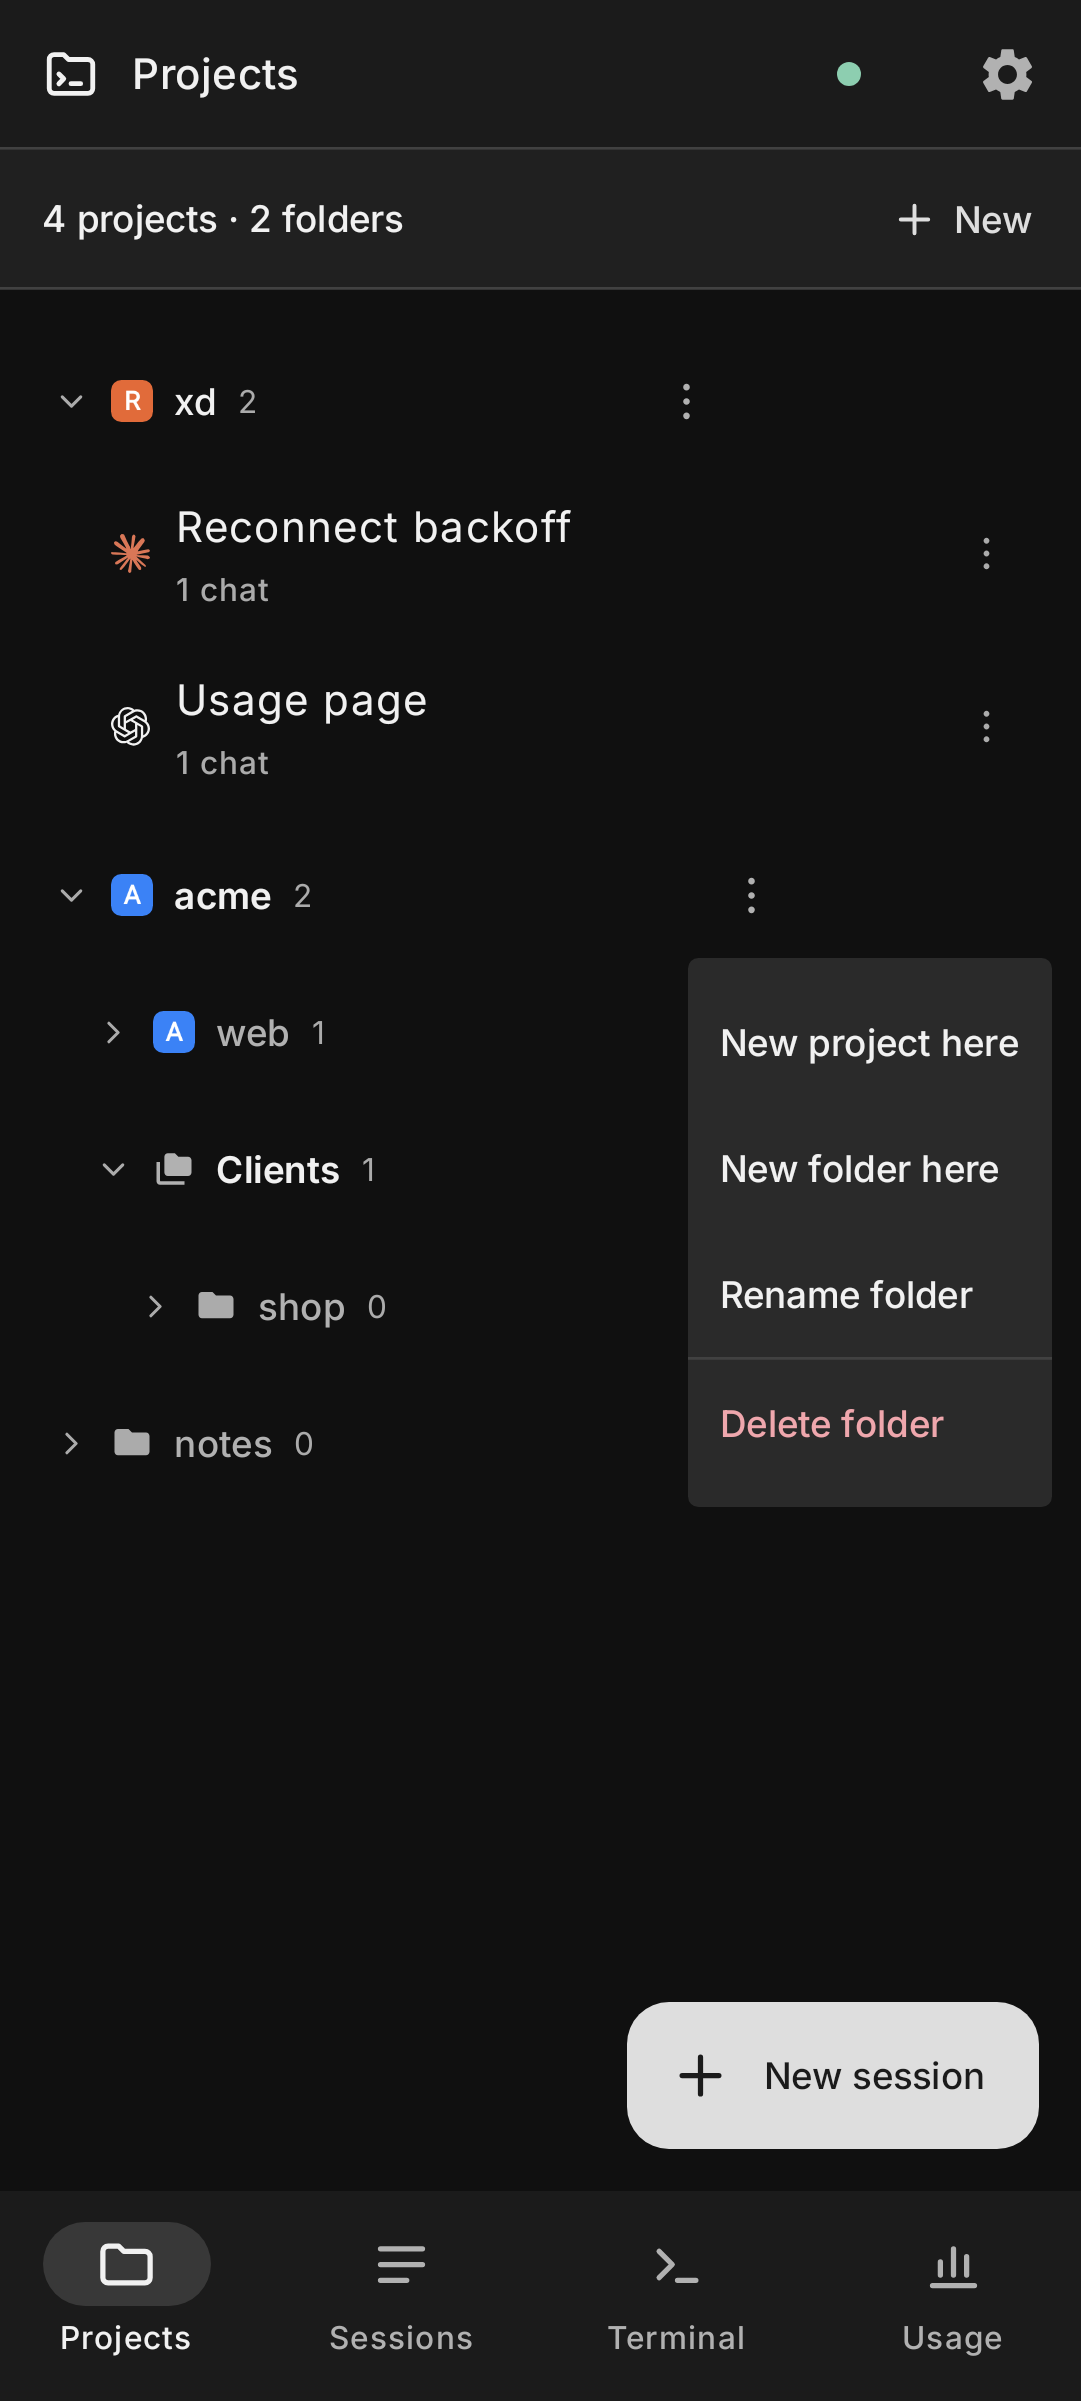
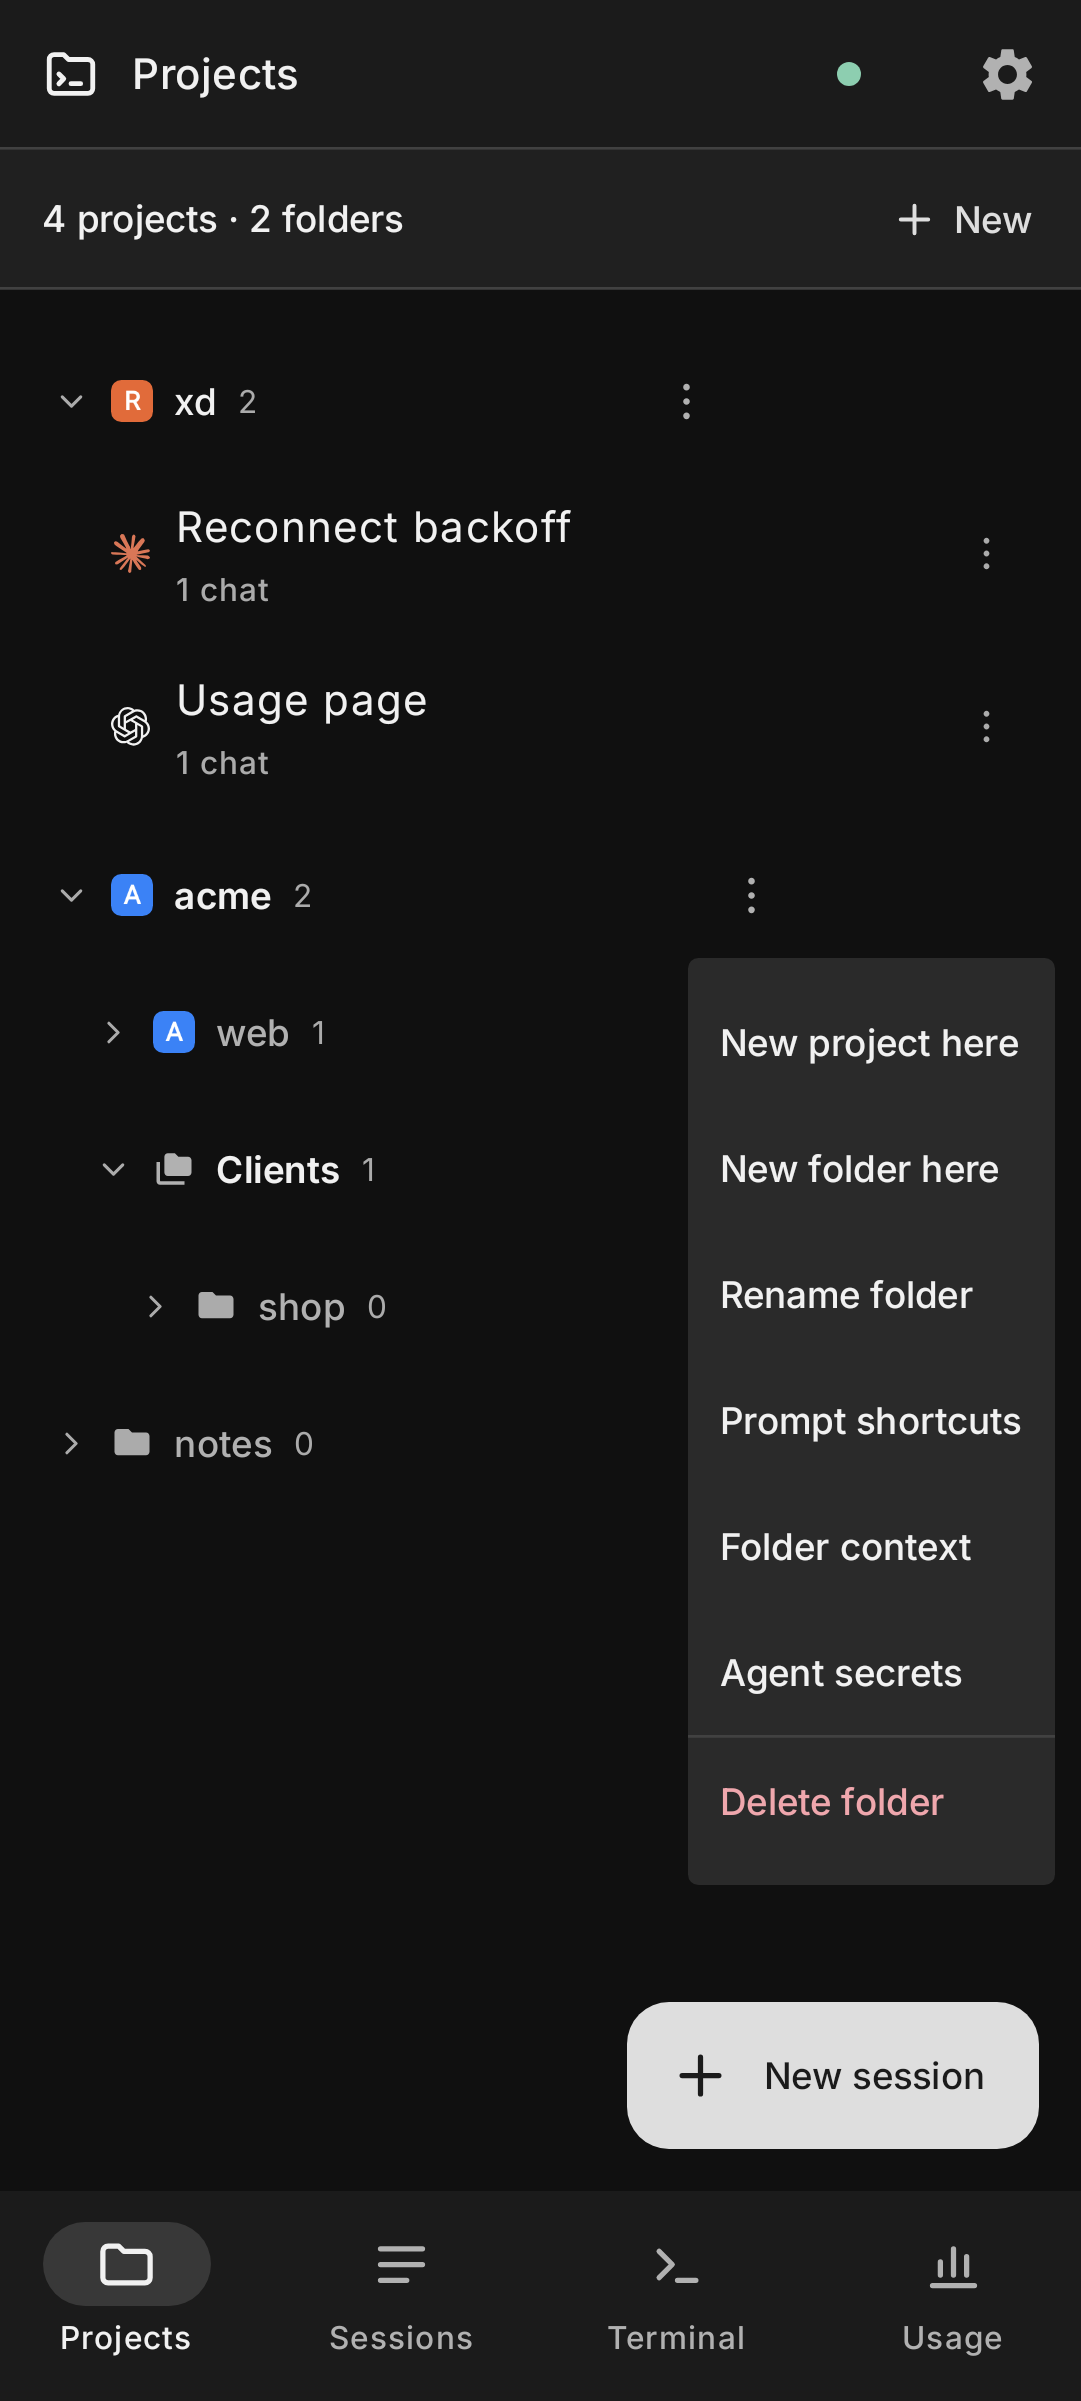
fix(mobile): keep folder context and secrets, and script the screen test's host directly
A folder's menu keeps Folder context and Agent secrets beside Prompt shortcuts: mobile offered them while it listed these folders as projects, and what is set on a folder reaches every project inside. Their dialogs now resolve the folder from the whole tree rather than from projects alone.

MainViewModel takes its client as an optional argument, so the Projects screen test builds it around a scripted host instead of relying on a test Application, which Robolectric did not always use when other test classes ran first. XdApplication is unchanged from master.

Changed region(s): [[0.6105, 0.5623, 0.9769, 0.8122]]

diff --git a/mobile/androidApp/src/test/kotlin/com/restartfu/xd/mobile/ui/ProjectsScreenshotTest.kt b/mobile/androidApp/src/test/kotlin/com/restartfu/xd/mobile/ui/ProjectsScreenshotTest.kt
@@ -24,7 +24,6 @@ import androidx.compose.ui.test.junit4.AndroidComposeTestRule
 import androidx.compose.ui.test.junit4.createAndroidComposeRule
 import androidx.compose.ui.test.onLast
 import androidx.compose.ui.test.performClick
-import androidx.lifecycle.ViewModelProvider
 import androidx.lifecycle.compose.collectAsStateWithLifecycle
 import com.restartfu.xd.XdClient
 import com.restartfu.xd.credentials.CredentialStore
@@ -34,12 +33,15 @@ import com.restartfu.xd.credentials.SshHostKey
 import com.restartfu.xd.credentials.StoredCredentials
 import com.restartfu.xd.mobile.MainViewModel
 import com.restartfu.xd.mobile.MobileSettings
-import com.restartfu.xd.mobile.XdApplication
+import com.restartfu.xd.net.ConnectResult
 import com.restartfu.xd.net.PlatformSocket
 import com.restartfu.xd.net.PlatformSocketListener
 import java.io.ByteArrayOutputStream
 import java.io.File
 import kotlinx.coroutines.CoroutineScope
+import kotlinx.coroutines.Dispatchers
+import kotlinx.coroutines.SupervisorJob
+import kotlinx.coroutines.cancel
 import kotlinx.coroutines.runBlocking
 import kotlinx.serialization.json.Json
 import kotlinx.serialization.json.jsonObject
@@ -62,7 +64,7 @@ import org.robolectric.shadows.ShadowLooper
  */
 @RunWith(RobolectricTestRunner::class)
 @GraphicsMode(GraphicsMode.Mode.NATIVE)
-@Config(sdk = [35], qualifiers = "w412dp-h915dp-420dpi", application = ProjectsScreenshotTest.ScriptedApplication::class)
+@Config(sdk = [35], qualifiers = "w412dp-h915dp-420dpi")
 class ProjectsScreenshotTest {
     private val out = System.getProperty("xd.shots")?.let(::File)
 
@@ -86,7 +88,8 @@ class ProjectsScreenshotTest {
     @Test fun folderMenu() = shoot("folder-menu-dark", MinimalThemePreset.DARK) {
         // A top-level folder with no other folder to go into cannot move.
         click("acme actions")
-        check(shows("New project here") && shows("Prompt shortcuts") && shows("Delete folder") && !shows("Move to…"))
+        check(shows("New project here") && shows("Prompt shortcuts") && shows("Folder context") &&
+            shows("Agent secrets") && shows("Delete folder") && !shows("Move to…"))
         pressBack()
         click("Clients actions")
         check(shows("New project here") && shows("Move to…") && shows("Delete folder"))
@@ -124,8 +127,10 @@ class ProjectsScreenshotTest {
     /** Opens the page, lets [steps] act on it, and captures the result. */
     private fun shoot(name: String, theme: MinimalThemePreset, steps: Screen.() -> Unit = {}) {
         val activity = compose.activity
-        val model = ViewModelProvider(activity)[MainViewModel::class.java]
-        runBlocking { model.client.connect(connection) }
+        val scope = CoroutineScope(SupervisorJob() + Dispatchers.Default)
+        val model = MainViewModel(activity.application, XdClient({ ScriptedSocket() }, NoCredentials, scope))
+        val connected = runBlocking { model.client.connect(connection) }
+        check(connected is ConnectResult.Success) { "Could not reach the scripted host: $connected" }
         val settings = MobileSettings(activity)
         // Time moves only when the test says, so running animations cannot keep Compose busy.
         compose.mainClock.autoAdvance = false
@@ -159,6 +164,7 @@ class ProjectsScreenshotTest {
             dir.mkdirs()
             File(dir, "$name.png").outputStream().use { screen.capture().compress(Bitmap.CompressFormat.PNG, 100, it) }
         }
+        scope.cancel()
     }
 
     /** Drives the page as a person would by touch. */
@@ -243,10 +249,6 @@ class ProjectsScreenshotTest {
             }
             return bitmap
         }
-    }
-
-    class ScriptedApplication : XdApplication() {
-        override fun createClient(scope: CoroutineScope): XdClient = XdClient({ ScriptedSocket() }, NoCredentials, scope)
     }
 
     private object NoCredentials : CredentialStore {

diff --git a/mobile/androidApp/src/main/kotlin/com/restartfu/xd/mobile/ui/MinimalMobileApp.kt b/mobile/androidApp/src/main/kotlin/com/restartfu/xd/mobile/ui/MinimalMobileApp.kt
@@ -542,8 +542,9 @@ private fun MinimalProjectsHome(
     // Saved by project id, so an open editor survives recreating the activity.
     var contextForId by rememberSaveable { mutableStateOf<String?>(null) }
     var secretsForId by rememberSaveable { mutableStateOf<String?>(null) }
-    val contextFor = projects.firstOrNull { it.id == contextForId }
-    val secretsFor = projects.firstOrNull { it.id == secretsForId }
+    // Folders of projects have context and secrets too, which reach every project inside.
+    val contextFor = tree.folders.firstOrNull { it.id == contextForId }
+    val secretsFor = tree.folders.firstOrNull { it.id == secretsForId }
     val settled = if (actions.settlement) tree.settledSessions() else emptyList()
     val operationError by model.error.collectAsStateWithLifecycle()
     var selectedId by rememberSaveable { mutableStateOf<String?>(null) }
@@ -651,6 +652,8 @@ private fun MinimalProjectsHome(
                                         onShortcuts = {
                                             model.openShortcutEditor(row.folder.id, "${row.folder.name} shortcuts")
                                         },
+                                        onContext = { contextForId = row.folder.id },
+                                        onSecrets = { secretsForId = row.folder.id },
                                         onDelete = { deletingFolderId = row.folder.id },
                                     )
                                 },
@@ -1415,8 +1418,10 @@ private fun FolderMenu(
     /** Null when there is no other folder to move it into or out of. */
     onMove: (() -> Unit)?,
     onRename: () -> Unit,
-    /** Shortcuts set here reach every project inside. */
+    /** Shortcuts, context, and secrets set here reach every project inside. */
     onShortcuts: () -> Unit,
+    onContext: () -> Unit,
+    onSecrets: () -> Unit,
     onDelete: () -> Unit,
 ) {
     var open by remember { mutableStateOf(false) }
@@ -1452,6 +1457,14 @@ private fun FolderMenu(
             DropdownMenuItem(
                 text = { Text("Prompt shortcuts") },
                 onClick = { open = false; onShortcuts() },
+            )
+            DropdownMenuItem(
+                text = { Text("Folder context") },
+                onClick = { open = false; onContext() },
+            )
+            DropdownMenuItem(
+                text = { Text("Agent secrets") },
+                onClick = { open = false; onSecrets() },
             )
             HorizontalDivider()
             DropdownMenuItem(

diff --git a/mobile/androidApp/src/main/kotlin/com/restartfu/xd/mobile/XdApplication.kt b/mobile/androidApp/src/main/kotlin/com/restartfu/xd/mobile/XdApplication.kt
@@ -8,17 +8,16 @@ import kotlinx.coroutines.CoroutineScope
 import kotlinx.coroutines.Dispatchers
 import kotlinx.coroutines.SupervisorJob
 
-open class XdApplication : Application() {
+class XdApplication : Application() {
     private val applicationScope = CoroutineScope(SupervisorJob() + Dispatchers.Default)
 
     val settings: MobileSettings by lazy { MobileSettings(this) }
 
-    val client: XdClient by lazy { createClient(applicationScope) }
-
-    /** How the app reaches its host; screen tests answer from a script instead. */
-    protected open fun createClient(scope: CoroutineScope): XdClient = XdClient(
-        socketFactory = AndroidDaemonSocketFactory(),
-        credentials = AndroidCredentialStore(this),
-        scope = scope,
-    )
+    val client: XdClient by lazy {
+        XdClient(
+            socketFactory = AndroidDaemonSocketFactory(),
+            credentials = AndroidCredentialStore(this),
+            scope = applicationScope,
+        )
+    }
 }

diff --git a/mobile/androidApp/src/main/kotlin/com/restartfu/xd/mobile/MainViewModel.kt b/mobile/androidApp/src/main/kotlin/com/restartfu/xd/mobile/MainViewModel.kt
@@ -106,8 +106,11 @@ data class PendingHostKeyConfirmation(
     val username: String,
 )
 
-class MainViewModel(application: Application) : AndroidViewModel(application) {
-    val client: XdClient = (application as XdApplication).client
+class MainViewModel @JvmOverloads constructor(
+    application: Application,
+    /** The app's host connection; screen tests pass one answering from a script. */
+    val client: XdClient = (application as XdApplication).client,
+) : AndroidViewModel(application) {
     private val _connecting = MutableStateFlow(false)
     private val _pendingHostKey = MutableStateFlow<PendingHostKeyConfirmation?>(null)
     private val _privateKeyName = MutableStateFlow<String?>(null)
